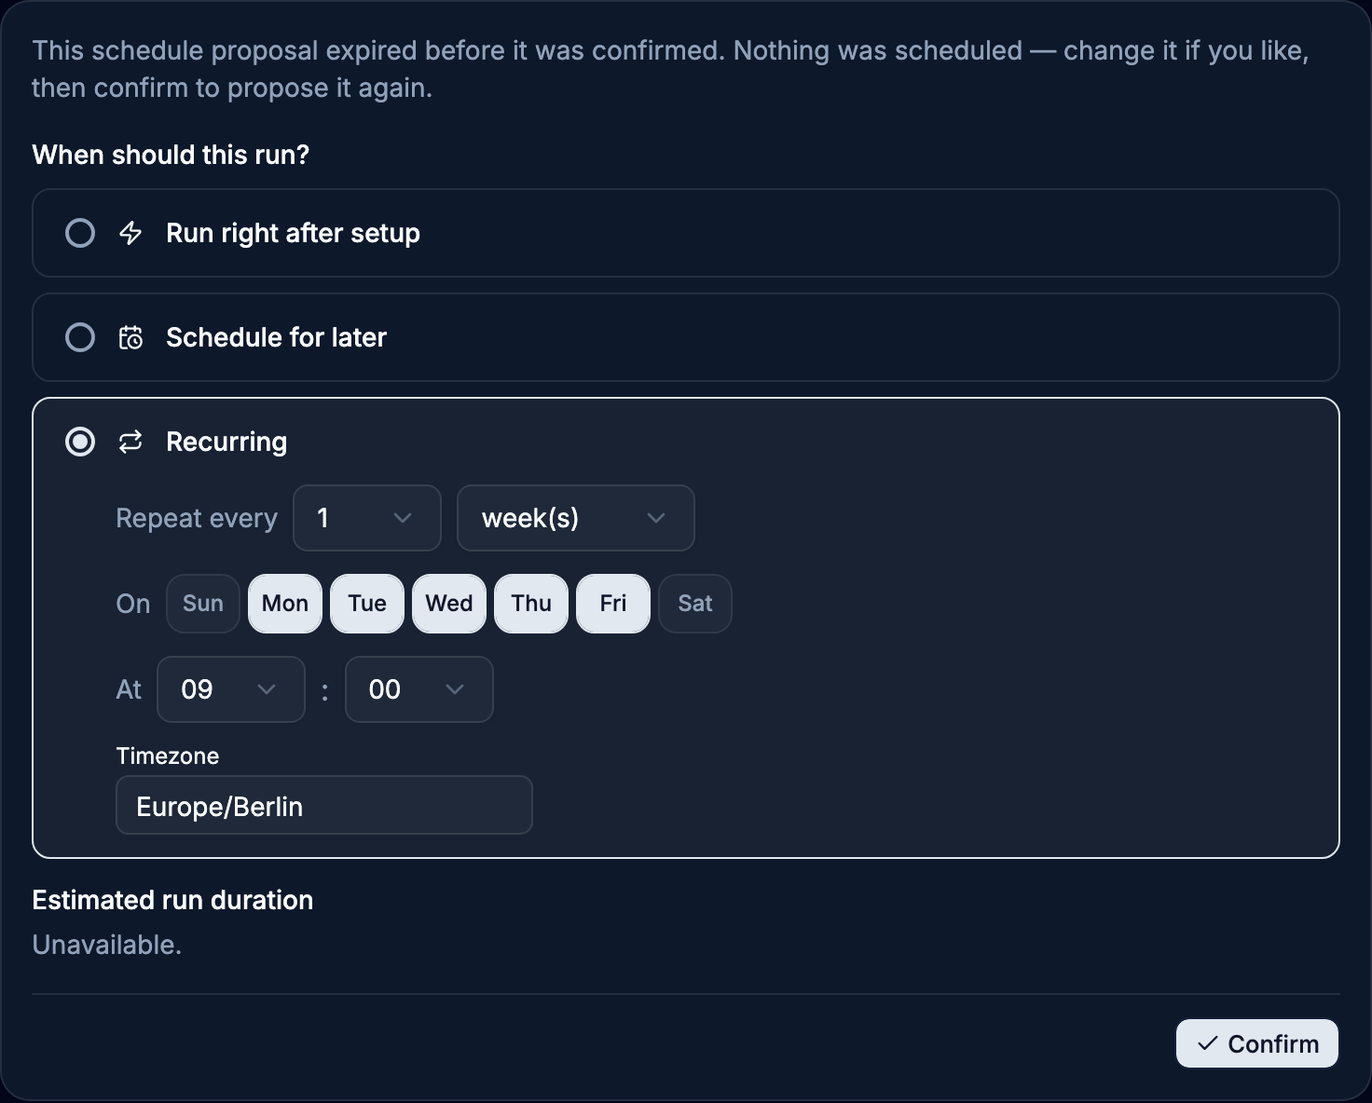
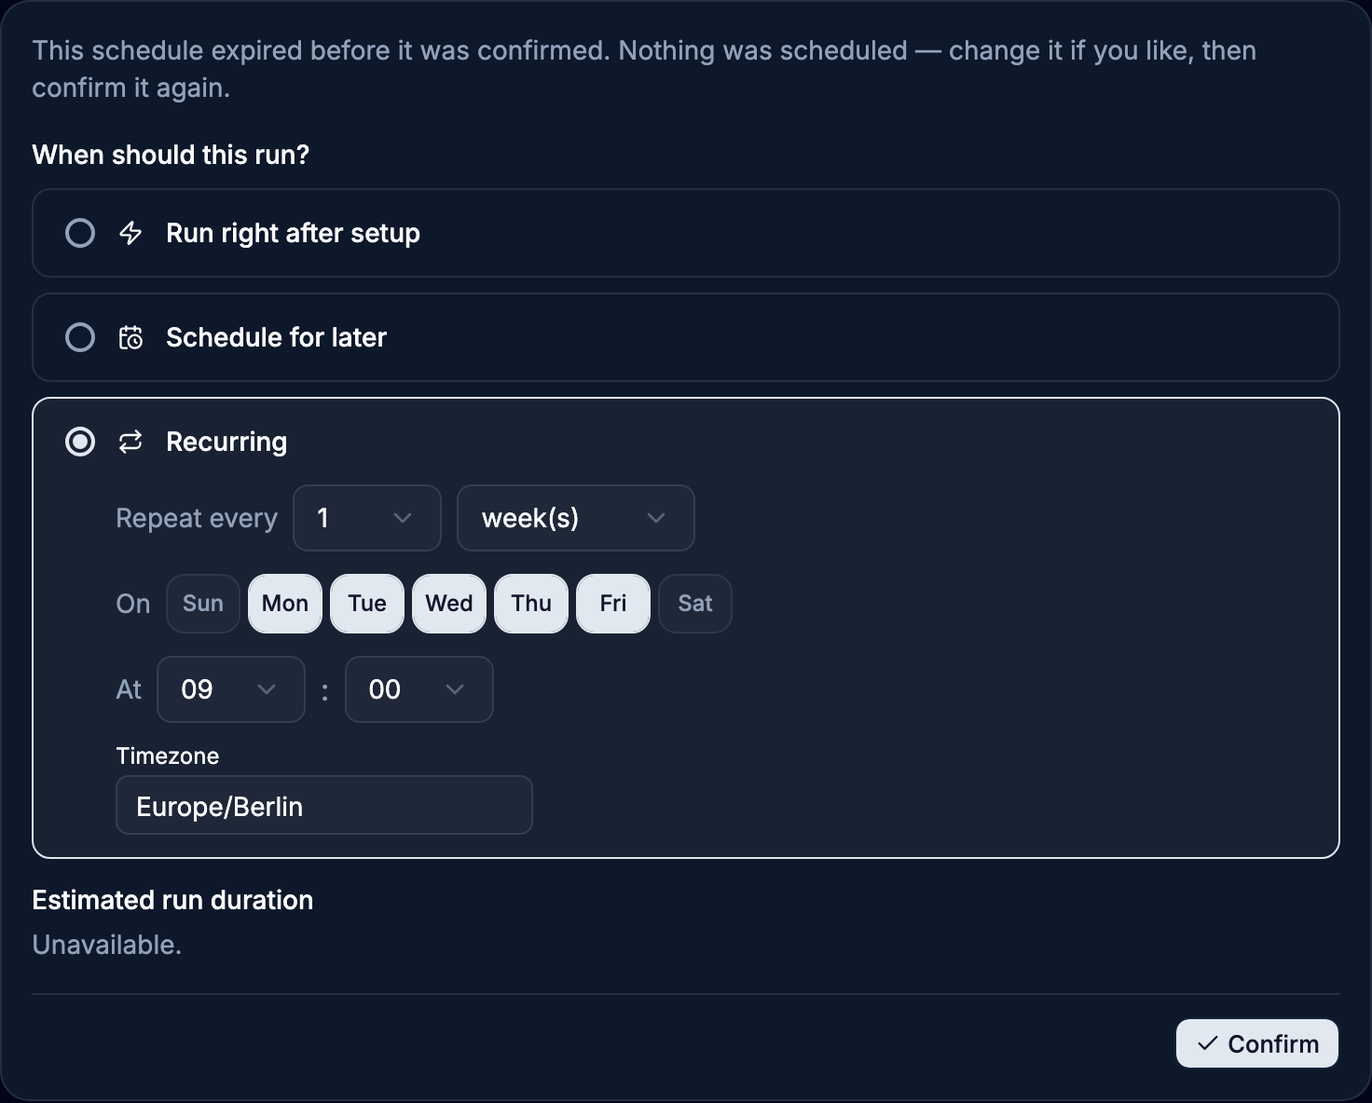
fix(schedule): Save changes refuses when the prior scheduler cannot be cancelled or the trigger was released meanwhile; index narrative and expired-copy cells refreshed (#2788)
Assisted-by: Claude Code (claude-opus-5)
Assisted-by: Codex (gpt-5.6-sol)

Changed region(s): [[0.0312, 0.0312, 0.9688, 0.0938]]

diff --git a/packages/agents/src/trigger-service.ts b/packages/agents/src/trigger-service.ts
@@ -124,6 +124,40 @@ export type SetTriggerForActorResult =
   | { ok: true; runId: string; jobSchedulerId: string | null }
   | { ok: false; error: string };
 
+/**
+ * OPT-IN REPLACE STRICTNESS for `setRunTriggerForActor` (cinatra#2788).
+ *
+ * WHY IT IS A MODE AND NOT THE DEFAULT. The ordinary callers of this function —
+ * the MCP handlers, `run-actions.ts`, the proposal service's install — are
+ * ARMING a trigger, and for them a prior scheduler that refuses to cancel is a
+ * warning on the way to the arm they asked for. The SAVE path is different: it
+ * is a REPLACEMENT of a schedule the reader is already looking at, so an
+ * uncancelled predecessor is not a blemish on the result — it IS a second live
+ * scheduler for the same run, and the reader was told there is one. Making the
+ * strictness the default would change the arming callers' behaviour, so the
+ * save path selects it and nobody else's contract moves.
+ */
+export type SetTriggerReplaceStrictness = {
+  /**
+   * Refuse the whole operation when the prior scheduler cannot be cancelled,
+   * rather than logging and installing a replacement beside it. Nothing is
+   * written when this fires: the refusal happens BEFORE the upsert, so the
+   * schedule the reader already has stays exactly as it was.
+   */
+  failClosedOnCancelFailure: boolean;
+  /**
+   * Re-run the caller's own guard against the row THIS function reads
+   * immediately before the cancel — the same row the cancel and the upsert act
+   * on. Returning a string refuses with it; `null` proceeds.
+   *
+   * This is the "pass the verified snapshot through and refuse on mismatch"
+   * half: a caller that checked released/fired state against an EARLIER read
+   * has an open window between its check and this write, and re-asking here
+   * closes it against the read that actually matters.
+   */
+  reverify?: (existing: TriggerRecord | null) => string | null;
+};
+
 export type GetTriggerForActorResult =
   | { ok: true; trigger: TriggerRecord | null }
   | { ok: false; error: string };
@@ -480,6 +514,7 @@ async function dispatchImmediateNow(
 export async function setRunTriggerForActor(
   actor: TriggerActorContext,
   args: SetTriggerForActorArgs,
+  strictness?: SetTriggerReplaceStrictness,
 ): Promise<SetTriggerForActorResult> {
   if (!actor.userId) return { ok: false, error: "unauthorized" };
 
@@ -620,6 +655,20 @@ export async function setRunTriggerForActor(
   // cancel it, orphaning the job (codex round-2 finding). The extra round-trip
   // is the price of the no-orphan guarantee.
   const existing = await readRunTriggerByRunId(args.runId);
+
+  // RE-ASK THE CALLER'S GUARD ON *THIS* READ (cinatra#2788).
+  //
+  // A caller that refused on released/fired state did so against an earlier
+  // snapshot, and everything between that read and this one is asynchronous —
+  // so a concurrent release can land in the gap and the caller's refusal never
+  // runs again. Re-asking here binds the decision to the row the cancel and the
+  // upsert are about to act on. Nothing has been written yet at this point, so
+  // a refusal here leaves the reader's existing schedule untouched.
+  if (strictness?.reverify) {
+    const refusal = strictness.reverify(existing);
+    if (refusal) return { ok: false, error: refusal };
+  }
+
   const oldJobSchedulerId = existing?.jobSchedulerId ?? null;
   const oldTriggerType = existing?.triggerType ?? null;
   if (oldJobSchedulerId && oldTriggerType) {
@@ -629,6 +678,19 @@ export async function setRunTriggerForActor(
         triggerType: oldTriggerType,
       });
     } catch (err) {
+      // FAIL CLOSED FOR A REPLACEMENT (cinatra#2788). Continuing here installs
+      // the new scheduler while the old one is still live: two schedulers on
+      // one run, both able to fire it, and a reader who was shown exactly one
+      // schedule. The replace path refuses instead — before the upsert, so
+      // nothing is half-written and the prior schedule stands unchanged.
+      if (strictness?.failClosedOnCancelFailure) {
+        console.error(
+          "[setRunTriggerForActor] cancel of prior schedule failed — refusing the replacement (nothing written)",
+          args.runId,
+          err,
+        );
+        return { ok: false, error: SAVE_SCHEDULE_REFUSALS.cancelFailed };
+      }
       console.warn(
         "[setRunTriggerForActor] cancel of prior schedule failed (continuing)",
         args.runId,
@@ -1134,7 +1196,33 @@ export const SAVE_SCHEDULE_REFUSALS = {
     "This one-off schedule has already run. Ask for a new schedule instead of changing this one.",
   immediate:
     "\u201cRun right after setup\u201d starts the run now rather than scheduling it. Use Release now on the run page\u2019s schedule step to start an armed run early.",
+  /** The prior scheduler would not cancel, so the replacement was NOT installed
+   *  — the schedule the reader is looking at is still the live one. */
+  cancelFailed:
+    "The schedule could not be changed just now. Your existing schedule is unchanged and still armed — please try again.",
 } as const;
+
+/**
+ * THE SAVE GUARD, in ONE place (cinatra#2788).
+ *
+ * `updateRunTriggerScheduleForActor` asks this before it delegates, and asks it
+ * AGAIN — through the strictness hook — against the row the setter itself reads
+ * immediately before the cancel. Two call sites, one function, so the pre-check
+ * and the re-check can never drift into disagreeing about what "still
+ * changeable" means.
+ */
+function saveScheduleGuardRefusal(trigger: TriggerRecord | null): string | null {
+  if (!trigger) return SAVE_SCHEDULE_REFUSALS.noTrigger;
+  if (trigger.releasedAt) return SAVE_SCHEDULE_REFUSALS.released;
+  // A one-off whose moment has passed has fired (or is firing).
+  if (
+    trigger.triggerType === "scheduled" &&
+    (!trigger.scheduledAt || trigger.scheduledAt.getTime() <= Date.now())
+  ) {
+    return SAVE_SCHEDULE_REFUSALS.firedOneOff;
+  }
+  return null;
+}
 
 export async function updateRunTriggerScheduleForActor(
   actor: TriggerActorContext,
@@ -1148,37 +1236,49 @@ export async function updateRunTriggerScheduleForActor(
     return { ok: false, error: "forbidden" };
   }
 
+  // Refused BEFORE any write, so the prior scheduler is never cancelled on the
+  // way to a refusal. This read is a SNAPSHOT: the authoritative re-ask happens
+  // inside the setter, against the row the cancel and the upsert act on.
   const existing = await readRunTriggerByRunId(args.runId);
-  if (!existing) return { ok: false, error: SAVE_SCHEDULE_REFUSALS.noTrigger };
-  if (existing.releasedAt) {
-    return { ok: false, error: SAVE_SCHEDULE_REFUSALS.released };
-  }
-  // A one-off whose moment has passed has fired (or is firing). Refused BEFORE
-  // any write, so the prior scheduler is never cancelled on the way to a refusal.
-  if (
-    existing.triggerType === "scheduled" &&
-    (!existing.scheduledAt || existing.scheduledAt.getTime() <= Date.now())
-  ) {
-    return { ok: false, error: SAVE_SCHEDULE_REFUSALS.firedOneOff };
-  }
+  const guardRefusal = saveScheduleGuardRefusal(existing);
+  if (guardRefusal) return { ok: false, error: guardRefusal };
   if (args.schedule.kind === "immediate") {
     return { ok: false, error: SAVE_SCHEDULE_REFUSALS.immediate };
   }
 
+  // THE SAVE PATH IS A REPLACEMENT, SO IT IS STRICT (cinatra#2788).
+  //
+  // Fail closed if the prior scheduler will not cancel — a save that installs a
+  // second live scheduler is worse than a save that refuses — and re-ask the
+  // guard above against the setter's own pre-cancel read, so a release that
+  // lands between the snapshot and the write is refused rather than overwritten.
+  const strictness: SetTriggerReplaceStrictness = {
+    failClosedOnCancelFailure: true,
+    reverify: saveScheduleGuardRefusal,
+  };
+
   const result =
     args.schedule.kind === "scheduled"
-      ? await setRunTriggerForActor(actor, {
-          runId: args.runId,
-          triggerType: "scheduled",
-          scheduledAt: args.schedule.runAt,
-          timezone: args.schedule.timezone,
-        })
-      : await setRunTriggerForActor(actor, {
-          runId: args.runId,
-          triggerType: "recurring",
-          cronExpression: buildCron(args.schedule.selection),
-          timezone: args.schedule.timezone,
-        });
+      ? await setRunTriggerForActor(
+          actor,
+          {
+            runId: args.runId,
+            triggerType: "scheduled",
+            scheduledAt: args.schedule.runAt,
+            timezone: args.schedule.timezone,
+          },
+          strictness,
+        )
+      : await setRunTriggerForActor(
+          actor,
+          {
+            runId: args.runId,
+            triggerType: "recurring",
+            cronExpression: buildCron(args.schedule.selection),
+            timezone: args.schedule.timezone,
+          },
+          strictness,
+        );
 
   return result.ok ? { ok: true, runId: args.runId } : { ok: false, error: result.error };
 }

diff --git a/packages/agents/src/__tests__/trigger-service-save-schedule.test.ts b/packages/agents/src/__tests__/trigger-service-save-schedule.test.ts
@@ -292,3 +292,78 @@ describe("the refusals, all of them before any write", () => {
     expectNoWrites();
   });
 });
+
+describe("the replacement is atomic or it does not happen (cinatra#2788, convergence F1)", () => {
+  it("REFUSES the save when the prior scheduler cannot be cancelled — one run never gets two schedulers", async () => {
+    // The whole hazard in one line: the cancel fails. Before this fix the
+    // failure was caught, logged and STEPPED OVER, and the replacement was
+    // installed anyway — leaving the old scheduler live beside the new one, two
+    // things able to fire the same run, and a reader who was shown exactly one
+    // schedule.
+    triggerStore.readRunTriggerByRunId.mockResolvedValue(armedRecurring());
+    // ...Once, deliberately: `vi.clearAllMocks()` in beforeEach clears CALLS but
+    // not implementations, so a persistent rejection here would leak into the
+    // sibling test below that proves the ordinary path still installs.
+    schedule.cancelTriggerSchedule.mockRejectedValueOnce(
+      new Error("scheduler backend unreachable"),
+    );
+    const logged = vi.spyOn(console, "error").mockImplementation(() => {});
+
+    const result = await updateRunTriggerScheduleForActor(owner, {
+      runId: RUN_ID,
+      schedule: WEEKDAYS_AT_8,
+    });
+
+    expect(result).toEqual({ ok: false, error: SAVE_SCHEDULE_REFUSALS.cancelFailed });
+    // NO SECOND SCHEDULER. Neither the scheduler registration nor the row write
+    // happened, so the schedule the reader is looking at is still the only one.
+    expect(schedule.scheduleTrigger).not.toHaveBeenCalled();
+    expect(triggerStore.createOrUpdateRunTrigger).not.toHaveBeenCalled();
+    // And the refusal names the state truthfully: nothing changed.
+    expect(result.ok === false && result.error).toMatch(/unchanged and still armed/i);
+    expect(logged).toHaveBeenCalled();
+    logged.mockRestore();
+  });
+
+  it("REFUSES when the trigger is RELEASED between the guard's read and the write", async () => {
+    // The race: the refusals at the top of the save read ONE snapshot, and the
+    // setter re-reads later. A release that lands in that gap used to pass the
+    // guard and then be overwritten by the replacement — re-arming a trigger
+    // whose held steps are already eligible.
+    let reads = 0;
+    triggerStore.readRunTriggerByRunId.mockImplementation(async () => {
+      reads += 1;
+      // Read 1 is the guard's snapshot: still armed, so the save proceeds.
+      // Every later read — including the setter's own pre-cancel read, the one
+      // the cancel and the upsert act on — sees it released meanwhile.
+      return reads === 1 ? armedRecurring() : armedRecurring({ releasedAt: new Date() });
+    });
+
+    const result = await updateRunTriggerScheduleForActor(owner, {
+      runId: RUN_ID,
+      schedule: WEEKDAYS_AT_8,
+    });
+
+    expect(result).toEqual({ ok: false, error: SAVE_SCHEDULE_REFUSALS.released });
+    // The re-ask happens BEFORE the cancel, so the released trigger is not even
+    // cancelled on the way to the refusal.
+    expectNoWrites();
+    expect(reads).toBeGreaterThan(1);
+  });
+
+  it("the ordinary path is untouched: a cancel that SUCCEEDS still installs the replacement", async () => {
+    triggerStore.readRunTriggerByRunId.mockResolvedValue(armedRecurring());
+
+    const result = await updateRunTriggerScheduleForActor(owner, {
+      runId: RUN_ID,
+      schedule: WEEKDAYS_AT_8,
+    });
+
+    expect(result).toEqual({ ok: true, runId: RUN_ID });
+    expect(schedule.cancelTriggerSchedule).toHaveBeenCalledWith({
+      jobSchedulerId: "sched-OLD",
+      triggerType: "recurring",
+    });
+    expect(schedule.scheduleTrigger).toHaveBeenCalledTimes(1);
+  });
+});

diff --git a/packages/agents/src/__tests__/trigger-schedule-proposal-adjust-lineage.test.ts b/packages/agents/src/__tests__/trigger-schedule-proposal-adjust-lineage.test.ts
@@ -78,10 +78,14 @@ const WEEKDAYS_9AM: ProposalSchedule = {
 };
 
 /** What the reader adjusts it to — "make it 8 in the morning". */
+// No `as ProposalSchedule` here: the assertion widened this back to the whole
+// union and defeated the discriminant narrowing the annotation alone gives
+// (`WEEKDAYS_9AM` narrows to the recurring member and reads `.selection`
+// fine), so `WEEKDAYS_8AM.selection` below stopped typechecking.
 const WEEKDAYS_8AM: ProposalSchedule = {
   ...WEEKDAYS_9AM,
   selection: { ...WEEKDAYS_9AM.selection, hour: 8 },
-} as ProposalSchedule;
+};
 
 const readAgentTemplateById = vi.fn();
 const readProposalConsume = vi.fn();

diff --git a/evidence/2788-s9d-schedule-card/PLAN-WALK.md b/evidence/2788-s9d-schedule-card/PLAN-WALK.md
@@ -20,26 +20,26 @@ at each one. This file is the text they are graded against.
 
 CELL: A1__schedule-card__chat_thread__pending
 
-PLAN> **The proposal card.** The body is the app's standard scheduling step, unchanged: the question **"When should this run?"** over three option rows — **Run right after setup**, **Schedule for later** (Run at, Timezone) and **Recurring** (Repeat every N week(s); On Sun–Sat; At HH:MM; Timezone).
+PLAN> **The schedule card.** The body is the app's standard scheduling step, unchanged: the question **"When should this run?"** over three option rows — **Run right after setup**, **Schedule for later** (Run at, Timezone) and **Recurring** (Repeat every N week(s); On Sun–Sat; At HH:MM; Timezone).
 PLAN> The chosen row takes the indigo edge and tint and owns its fields.
 PLAN> Under them, **Estimated run duration** with a range.
-PLAN> There is **no raw cron field**: what the assistant selected is what you see and confirm.
-PLAN> The option rows are editable as they stand: until you confirm, you change the proposal directly on the card — the rows are never locked behind a separate step.
+PLAN> There is **no raw cron field**: the schedule you stated is what you see and confirm.
+PLAN> The option rows are editable as they stand: until you confirm, you change the schedule directly on the card — the rows are never locked behind a separate step.
 PLAN> The floor is **Confirm**, and this floor is new *here and only here*: the same scheduling step everywhere else arms its trigger directly on **Continue**, because there the thing already exists.
-PLAN> On a proposal nothing exists until you confirm; **Confirm** arms it.
-PLAN> The card appears in the reply with the proposed schedule, its option rows editable, and **Confirm**.
-PLAN> You change the proposal directly on the card if it is not right; **Confirm** arms the trigger.
+PLAN> Nothing exists here until you confirm; **Confirm** arms the schedule you stated.
+PLAN> The card appears in the reply with the schedule you stated, its option rows editable, and **Confirm**.
+PLAN> You change the schedule directly on the card if it is not right; **Confirm** arms what you stated.
 
 ---
 
 CELL: B1__schedule-card__chat_thread__pending__dark
 
-PLAN> **The proposal card.** The body is the app's standard scheduling step, unchanged: the question **"When should this run?"** over three option rows — **Run right after setup**, **Schedule for later** (Run at, Timezone) and **Recurring** (Repeat every N week(s); On Sun–Sat; At HH:MM; Timezone).
+PLAN> **The schedule card.** The body is the app's standard scheduling step, unchanged: the question **"When should this run?"** over three option rows — **Run right after setup**, **Schedule for later** (Run at, Timezone) and **Recurring** (Repeat every N week(s); On Sun–Sat; At HH:MM; Timezone).
 PLAN> The chosen row takes the indigo edge and tint and owns its fields.
-PLAN> There is **no raw cron field**: what the assistant selected is what you see and confirm.
-PLAN> The option rows are editable as they stand: until you confirm, you change the proposal directly on the card — the rows are never locked behind a separate step.
+PLAN> There is **no raw cron field**: the schedule you stated is what you see and confirm.
+PLAN> The option rows are editable as they stand: until you confirm, you change the schedule directly on the card — the rows are never locked behind a separate step.
 PLAN> The floor is **Confirm**, and this floor is new *here and only here*: the same scheduling step everywhere else arms its trigger directly on **Continue**, because there the thing already exists.
-PLAN> The card appears in the reply with the proposed schedule, its option rows editable, and **Confirm**.
+PLAN> The card appears in the reply with the schedule you stated, its option rows editable, and **Confirm**.
 
 The same reading on the dark ground. The chosen weekdays keep a filled chip
 rather than washing into the row, which is what makes "the chosen row … owns
@@ -74,7 +74,7 @@ PLAN> On the run page and the review page the schedule is a **dedicated step in 
 PLAN> The schedule is never drawn as a card among the review cards — a trigger decides *when* the agent runs, and a review card exists only after the agent has run and produced something — so the two can never appear together.
 PLAN> On the run page and the review page the schedule is a dedicated step in the step rail on the left, above **1 Review** — open it to see or change the configuration.
 PLAN> The trigger's own chrome — the read-only **Trigger configuration** summary (type, the schedule in plain words, timezone), **Steps held until trigger fires**, and the two quiet controls **Cancel trigger** and **Release now** for an administrator — lives on the run page's schedule step, not in the conversation.
-PLAN> The option rows are editable as they stand: until you confirm, you change the proposal directly on the card — the rows are never locked behind a separate step.
+PLAN> The option rows are editable as they stand: until you confirm, you change the schedule directly on the card — the rows are never locked behind a separate step.
 PLAN> The card stays in the conversation, showing the armed schedule in the same rows; change them and press **Save changes** to re-arm.
 
 The run page. The rail's first row is the schedule step, opened by a real
@@ -116,8 +116,8 @@ PLAN> The trigger's own chrome — the read-only **Trigger configuration** summa
 
 CELL: E1__schedule-card__chat_thread__pending__expired-face__standin
 
-PLAN> Nothing exists yet — the proposal expires on its own after 30 minutes if you do nothing, and an expired proposal **stays visible**, still editable, with **Confirm** to propose again.
-PLAN> The option rows are editable as they stand: until you confirm, you change the proposal directly on the card — the rows are never locked behind a separate step.
+PLAN> Nothing exists yet — the card expires on its own after 30 minutes if you do nothing, and an expired card **stays visible**, still editable, with **Confirm** to set the schedule again.
+PLAN> The option rows are editable as they stand: until you confirm, you change the schedule directly on the card — the rows are never locked behind a separate step.
 PLAN> The floor is **Confirm**, and this floor is new *here and only here*: the same scheduling step everywhere else arms its trigger directly on **Continue**, because there the thing already exists.
 
 STAND-IN, NAMED: this branch's resolver still answers an expired proposal
@@ -130,8 +130,8 @@ name says so.
 
 CELL: E2__schedule-card__chat_thread__pending__expired-face__standin__dark
 
-PLAN> Nothing exists yet — the proposal expires on its own after 30 minutes if you do nothing, and an expired proposal **stays visible**, still editable, with **Confirm** to propose again.
-PLAN> The option rows are editable as they stand: until you confirm, you change the proposal directly on the card — the rows are never locked behind a separate step.
+PLAN> Nothing exists yet — the card expires on its own after 30 minutes if you do nothing, and an expired card **stays visible**, still editable, with **Confirm** to set the schedule again.
+PLAN> The option rows are editable as they stand: until you confirm, you change the schedule directly on the card — the rows are never locked behind a separate step.
 PLAN> The floor is **Confirm**, and this floor is new *here and only here*: the same scheduling step everywhere else arms its trigger directly on **Continue**, because there the thing already exists.
 
 ---

diff --git a/evidence/2788-s9d-schedule-card/README.md b/evidence/2788-s9d-schedule-card/README.md
@@ -151,11 +151,11 @@ before any press.
 
 *chat_thread · light · expired (resolve stood in, named)*
 
-`evidence/2788-s9d-schedule-card/captures/E1__schedule-card__chat_thread__pending__expired-face__standin.png` · sha256 `b3d55105da846719…` · URL `/chat/cinatra-ai/cinatra-assistant/schedule-proposal-expired-1787455899`
+`evidence/2788-s9d-schedule-card/captures/E1__schedule-card__chat_thread__pending__expired-face__standin.png` · sha256 `9b6bebdf5e97bcf9…` · URL `/chat/cinatra-ai/cinatra-assistant/schedule-card-2939-expired-r9`
 
-**Requires.** An expired proposal stays VISIBLE, its rows still editable, on the SAME **Confirm** floor.
+**Requires.** An expired card stays VISIBLE, its rows still editable, on the SAME **Confirm** floor, and the sentence reads as the plan now words it — *"an expired card **stays visible**, still editable, with **Confirm** to set the schedule again"* — with no "proposal" left in the reader's copy.
 
-**Shows.** The card is drawn, not dropped: the sentence naming the expiry, then the same three rows with Recurring chosen and every field live, then **Confirm** — the same control the live proposal ends on. No **Adjust** anywhere.
+**Shows.** The card is drawn, not dropped: *"This schedule expired before it was confirmed. Nothing was scheduled — change it if you like, then confirm it again."* — the reworded sentence, re-shot for it — then the same three rows with Recurring chosen and every field live (Repeat every 1 week(s), On Mon–Fri, At 09 : 00, Timezone Europe/Berlin), **Estimated run duration**, then **Confirm** — the same control the live card ends on. No **Adjust** anywhere, and the word "proposal" appears nowhere on the card.
 
 **Verdict:** **PASS** on what it claims. The STAND-IN is the resolve RESPONSE and nothing else — this branch's resolver still answers an expired token `absent` (cinatra#2836's scope). The card, the transcript, the browser and every counted anchor are real.
 
@@ -165,11 +165,11 @@ before any press.
 
 *chat_thread · dark · expired (resolve stood in, named)*
 
-`evidence/2788-s9d-schedule-card/captures/E2__schedule-card__chat_thread__pending__expired-face__standin__dark.png` · sha256 `3d262bde396c9098…` · URL `/chat/cinatra-ai/cinatra-assistant/schedule-proposal-expired-1787455899`
+`evidence/2788-s9d-schedule-card/captures/E2__schedule-card__chat_thread__pending__expired-face__standin__dark.png` · sha256 `171f79f59343ed92…` · URL `/chat/cinatra-ai/cinatra-assistant/schedule-card-2939-expired-r9`
 
 **Requires.** The same, on the dark ground.
 
-**Shows.** Same expiry sentence, same editable rows, same **Confirm**; the chosen weekdays stay legible.
+**Shows.** The same reworded expiry sentence, the same editable rows and the same **Confirm** on the dark ground; Mon–Fri render as filled light chips while Sun and Sat stay outline, so the chosen days stay legible.
 
 **Verdict:** **PASS** on what it claims, with the same named stand-in.
 
